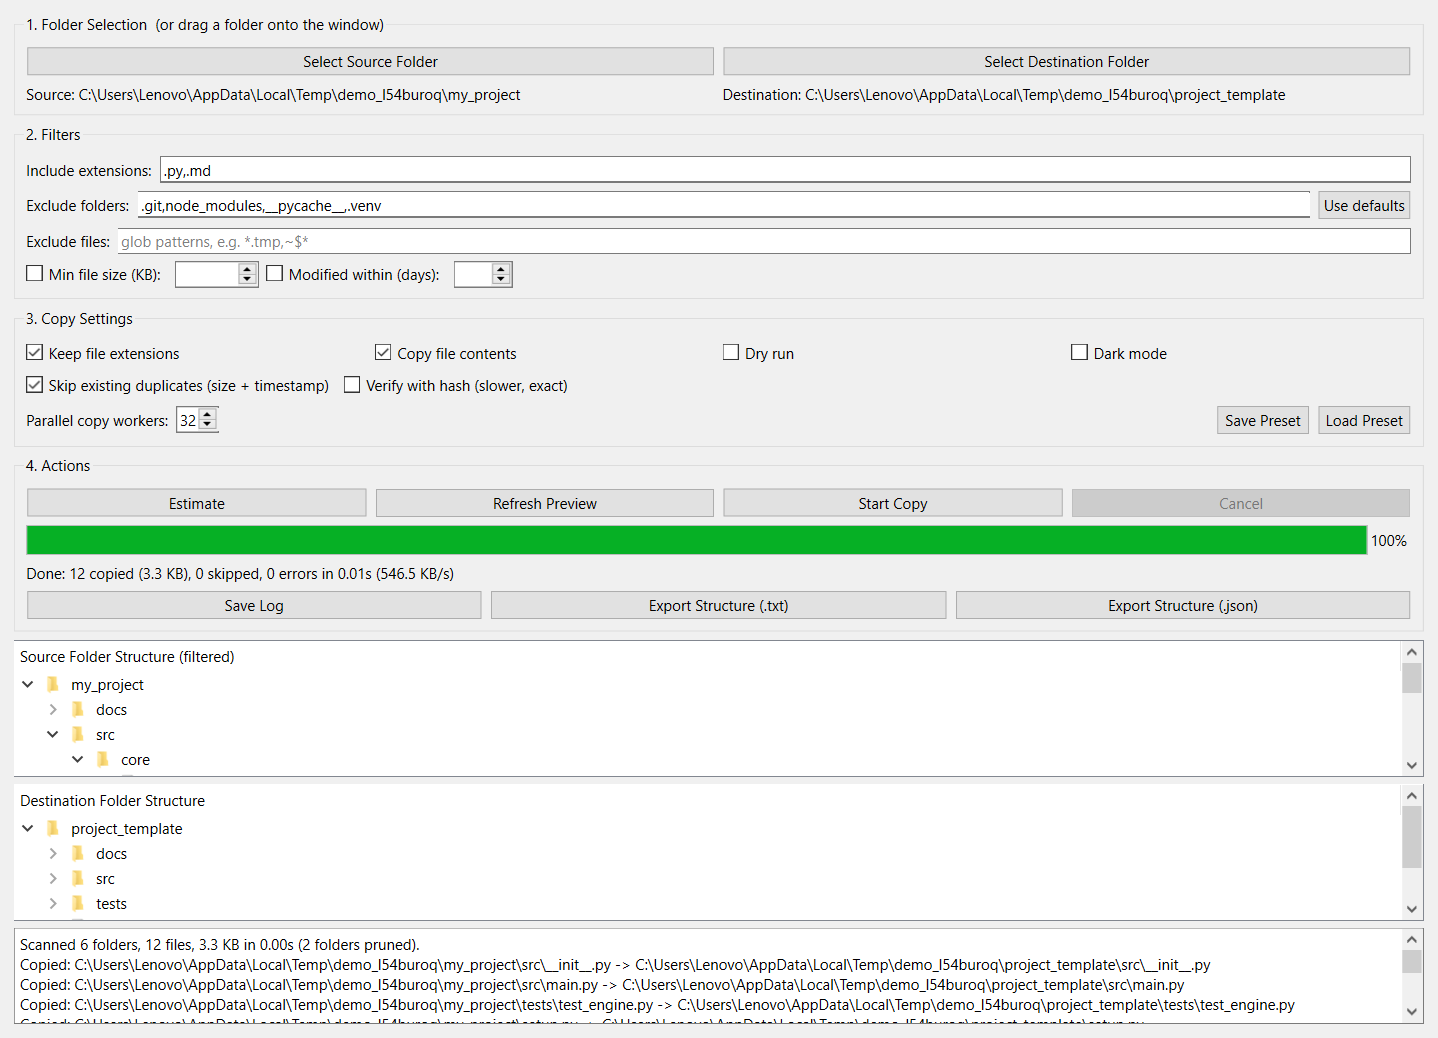
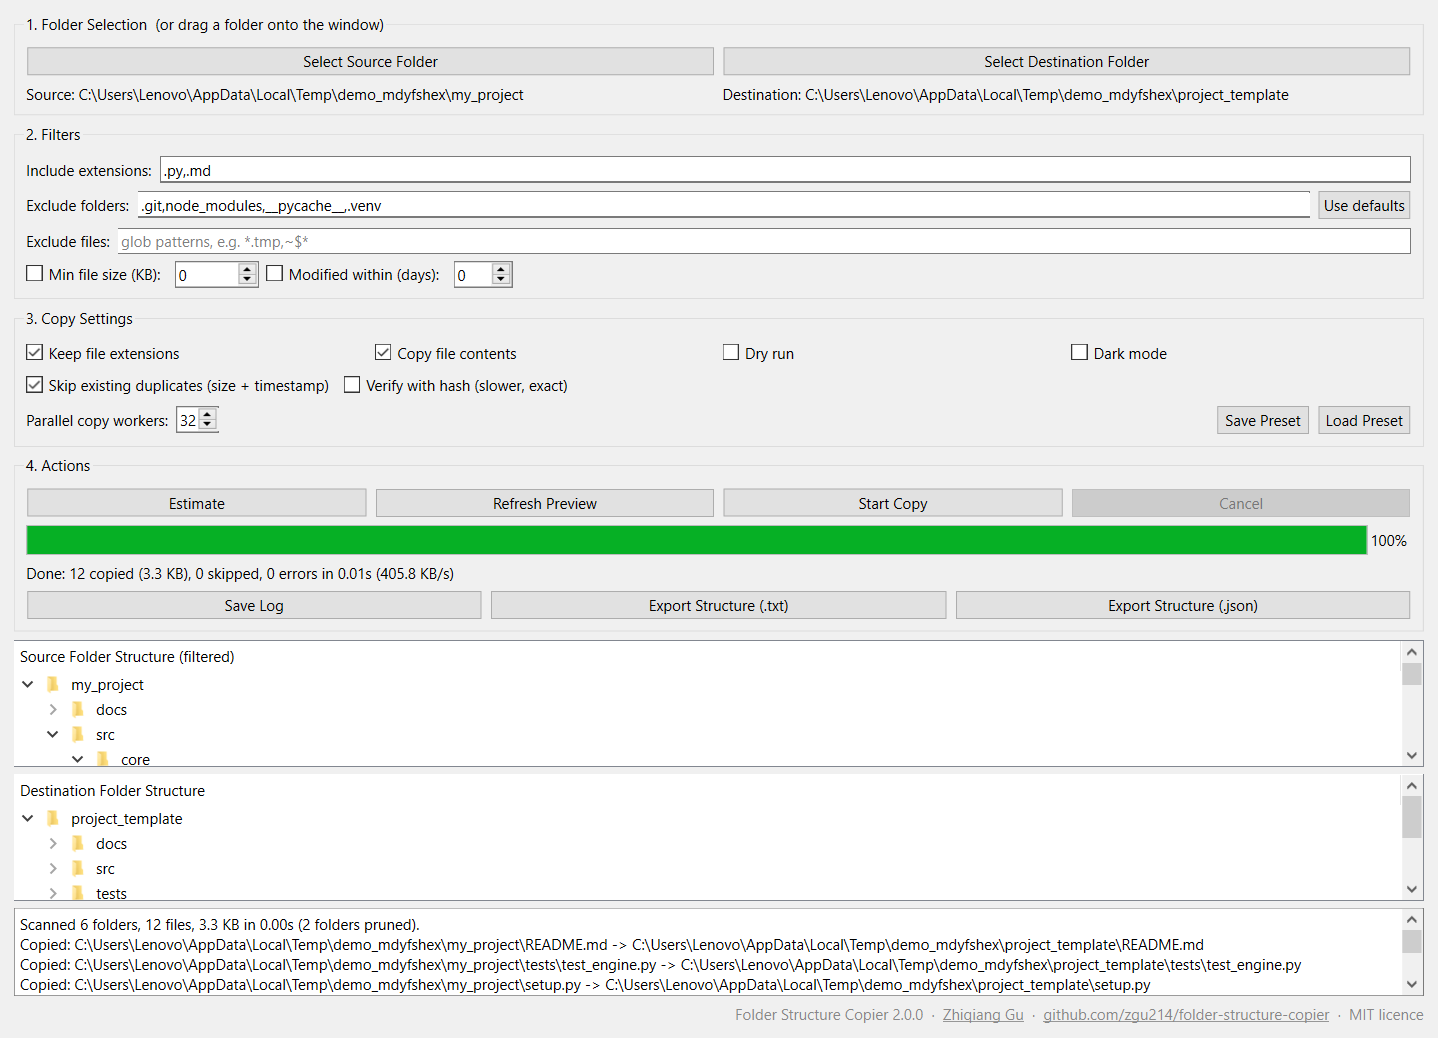
Show version and author in the app, and fix a stale version string
The window title read "Folder Structure Copier v4", which was the name of a
local working folder rather than the released version. Version, author,
project URL and licence now come from single constants in fscopy_core.

- Window title reads "Folder Structure Copier 2.0.0".
- A footer line names the author and links to the project and licence.
- The CLI answers --version and prints attribution in --help.
- Regenerate the screenshot so it shows the footer.

diff --git a/folder_structure_gui.py b/folder_structure_gui.py
@@ -1,9 +1,9 @@
 """
-Folder Structure Copier GUI (v4)
+Folder Structure Copier GUI (version 2.0)
 
-A faster rebuild of folder_structure_GUI / GUI2 / GUI3. Same job -- preview a
-folder tree, filter it, and copy the structure (with or without file content)
-to a destination -- with the slow parts redesigned. All scanning and copying
+A faster rebuild of version 1. Same job -- preview a folder tree, filter it,
+and copy the structure (with or without file content) to a destination --
+with the slow parts redesigned. All scanning and copying
 lives in fscopy_core (Qt-free, shared with fscopy_cli.py and the tests); this
 file is only the window.
 
@@ -38,8 +38,9 @@ from PyQt6.QtWidgets import (
 )
 
 from fscopy_core import (
-    DEFAULT_EXCLUDES, DEFAULT_MAX_WORKERS, CopyOptions, ScanOptions,
-    copy_tree, export_structure, file_passes, human_bytes, human_duration,
+    APP_NAME, AUTHOR, AUTHOR_EMAIL, DEFAULT_EXCLUDES, DEFAULT_MAX_WORKERS,
+    LICENSE, PROJECT_URL, CopyOptions, ScanOptions, __version__, copy_tree,
+    export_structure, file_passes, human_bytes, human_duration,
     is_excluded_dir, scan_tree,
 )
 
@@ -206,7 +207,7 @@ class LazyFolderTree(QTreeWidget):
 class FolderCopyApp(QWidget):
     def __init__(self):
         super().__init__()
-        self.setWindowTitle("Folder Structure Copier v4")
+        self.setWindowTitle(f"{APP_NAME} {__version__}")
         self.resize(1150, 800)
         self.setAcceptDrops(True)
         self.source_folder = ""
@@ -384,7 +385,22 @@ class FolderCopyApp(QWidget):
         splitter.setSizes([230, 230, 160])
         main_layout.addWidget(splitter)
 
+        main_layout.addWidget(self._build_footer())
         self.setLayout(main_layout)
+
+    def _build_footer(self):
+        """One discreet line naming the author, version and project home."""
+        footer = QLabel(
+            f'<span style="color:#888;">{APP_NAME} {__version__} &nbsp;·&nbsp; '
+            f'<a href="mailto:{AUTHOR_EMAIL}" style="color:#888;">{AUTHOR}</a> &nbsp;·&nbsp; '
+            f'<a href="{PROJECT_URL}" style="color:#888;">github.com/zgu214/folder-structure-copier</a>'
+            f' &nbsp;·&nbsp; {LICENSE} licence</span>'
+        )
+        footer.setTextFormat(Qt.TextFormat.RichText)
+        footer.setOpenExternalLinks(True)
+        footer.setAlignment(Qt.AlignmentFlag.AlignRight)
+        footer.setToolTip("Independent personal project, unrelated to any employer.")
+        return footer
 
     # -- Drag and drop -----------------------------------------------------
 

diff --git a/fscopy_cli.py b/fscopy_cli.py
@@ -1,5 +1,5 @@
 """
-Headless CLI for Folder Structure Copier v4.
+Headless CLI for Folder Structure Copier 2.0.
 
 Same engine as the GUI, no Qt import and no per-file widget updates, so this
 is the fastest way to run a large job (and the only way to script one):
@@ -20,8 +20,9 @@ import sys
 import threading
 
 from fscopy_core import (
-    DEFAULT_EXCLUDES, DEFAULT_MAX_WORKERS, CopyOptions, ScanOptions,
-    copy_tree, export_structure, human_bytes, human_duration, scan_tree,
+    APP_NAME, AUTHOR, DEFAULT_EXCLUDES, DEFAULT_MAX_WORKERS, PROJECT_URL,
+    CopyOptions, ScanOptions, __version__, copy_tree, export_structure,
+    human_bytes, human_duration, scan_tree,
 )
 
 
@@ -29,7 +30,10 @@ def build_parser():
     p = argparse.ArgumentParser(
         prog="fscopy",
         description="Copy a folder structure (optionally without file contents), fast.",
+        epilog=f"{APP_NAME} {__version__} by {AUTHOR} — {PROJECT_URL}",
     )
+    p.add_argument("--version", action="version",
+                   version=f"{APP_NAME} {__version__} by {AUTHOR} — {PROJECT_URL}")
     p.add_argument("source", help="Source folder")
     p.add_argument("destination", nargs="?", help="Destination folder (omit with --export or --scan-only)")
     p.add_argument("--ext", default="", help="Only include these extensions, e.g. .py,.txt")

diff --git a/fscopy_core.py b/fscopy_core.py
@@ -1,5 +1,5 @@
 """
-Core scan/copy engine for Folder Structure Copier v4.
+Core scan/copy engine for Folder Structure Copier 2.0.
 
 Deliberately Qt-free: the GUI (folder_structure_gui.py), the CLI
 (fscopy_cli.py) and the tests all sit on top of this module.
@@ -33,6 +33,13 @@ import time
 from concurrent.futures import ThreadPoolExecutor, FIRST_COMPLETED, wait
 from dataclasses import dataclass, field
 from fnmatch import fnmatchcase
+
+APP_NAME = "Folder Structure Copier"
+__version__ = "2.0.0"
+AUTHOR = "Zhiqiang Gu"
+AUTHOR_EMAIL = "zhiqiang.gu214@gmail.com"
+PROJECT_URL = "https://github.com/zgu214/folder-structure-copier"
+LICENSE = "MIT"
 
 DEFAULT_MAX_WORKERS = min(32, (os.cpu_count() or 4) * 4)
 DEFAULT_EXCLUDES = (".git", "node_modules", "__pycache__", ".venv", "venv", ".mypy_cache", ".pytest_cache")
